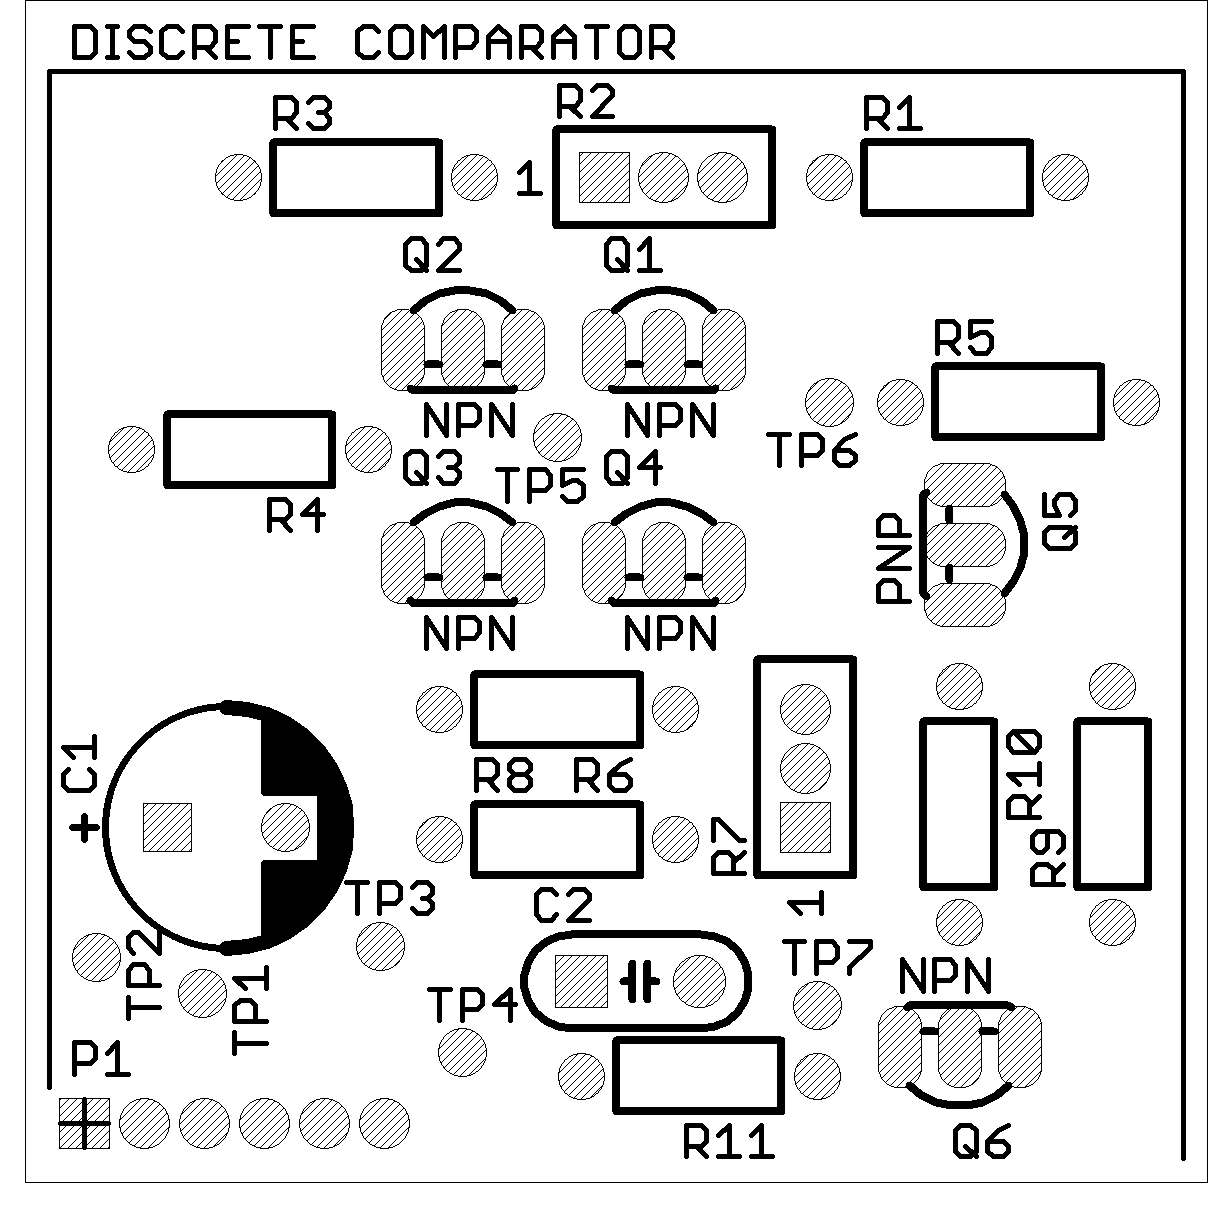
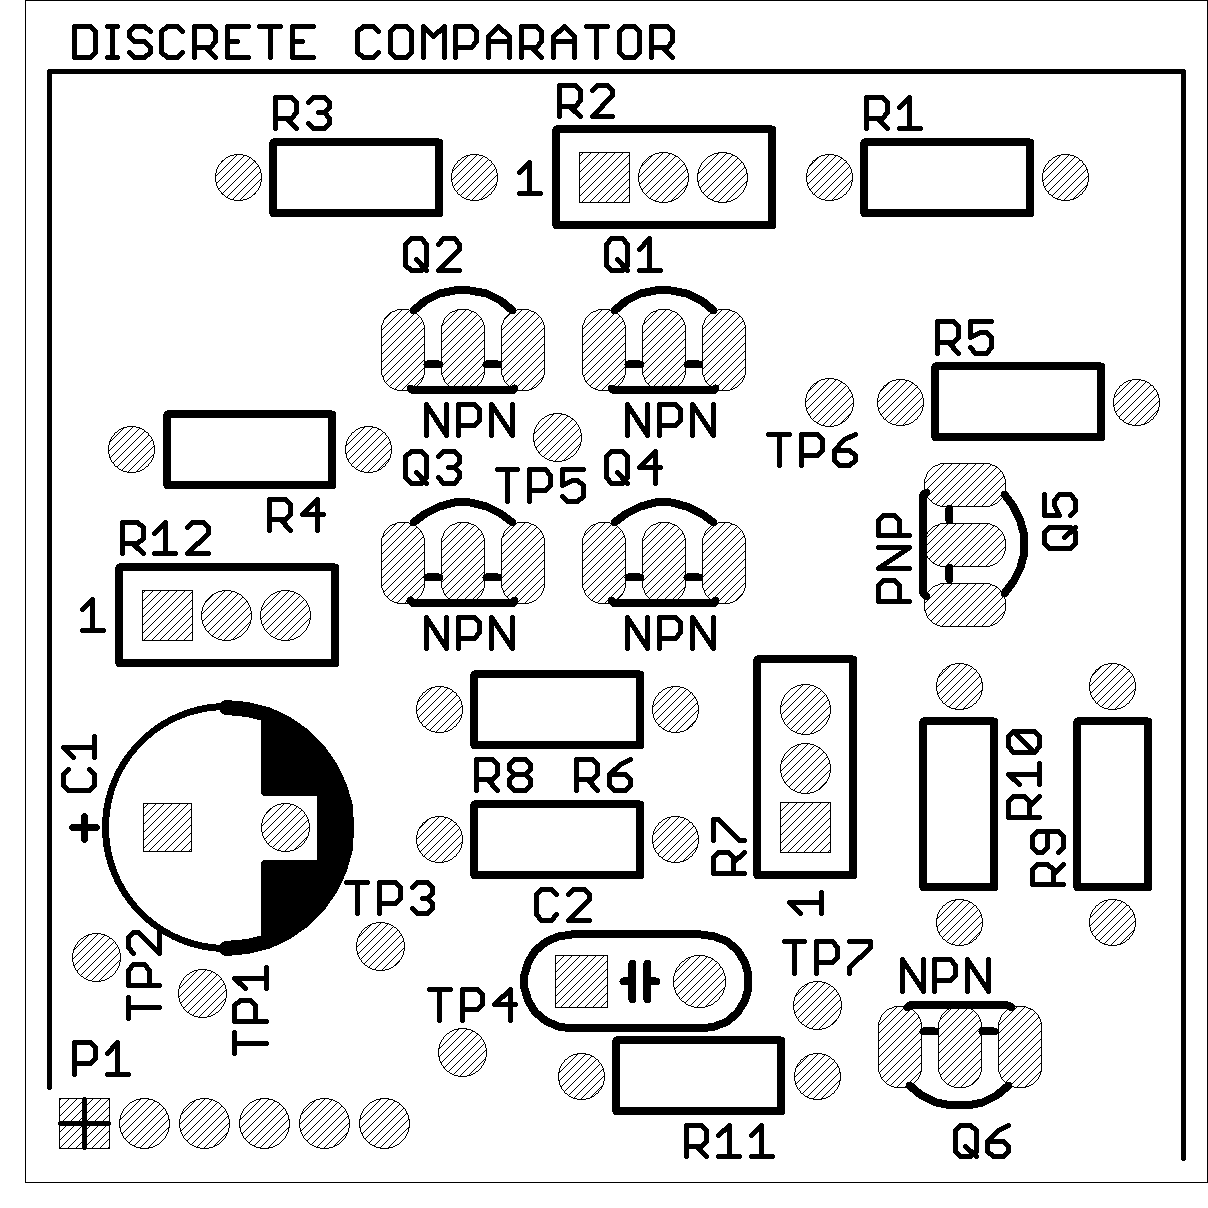
Update comparator collection description and add discrete comparator

Changed region(s): [[0.0613, 0.4288, 0.3063, 0.5513]]

diff --git a/collections/comparators.html b/collections/comparators.html
@@ -38,7 +38,7 @@
       </p>
 
       <p>
-        This collection includes eight foundational comparator configurations:
+        This collection includes six foundational comparator configurations:
       </p>
 
       <ul>
@@ -47,6 +47,7 @@
         <li>Voltage Level Detector</li>
         <li>Window Comparator</li>
         <li>Zero-Crossing Detector</li>
+        <li>Discrete Comparator</li>
       </ul>
 
         <p>
